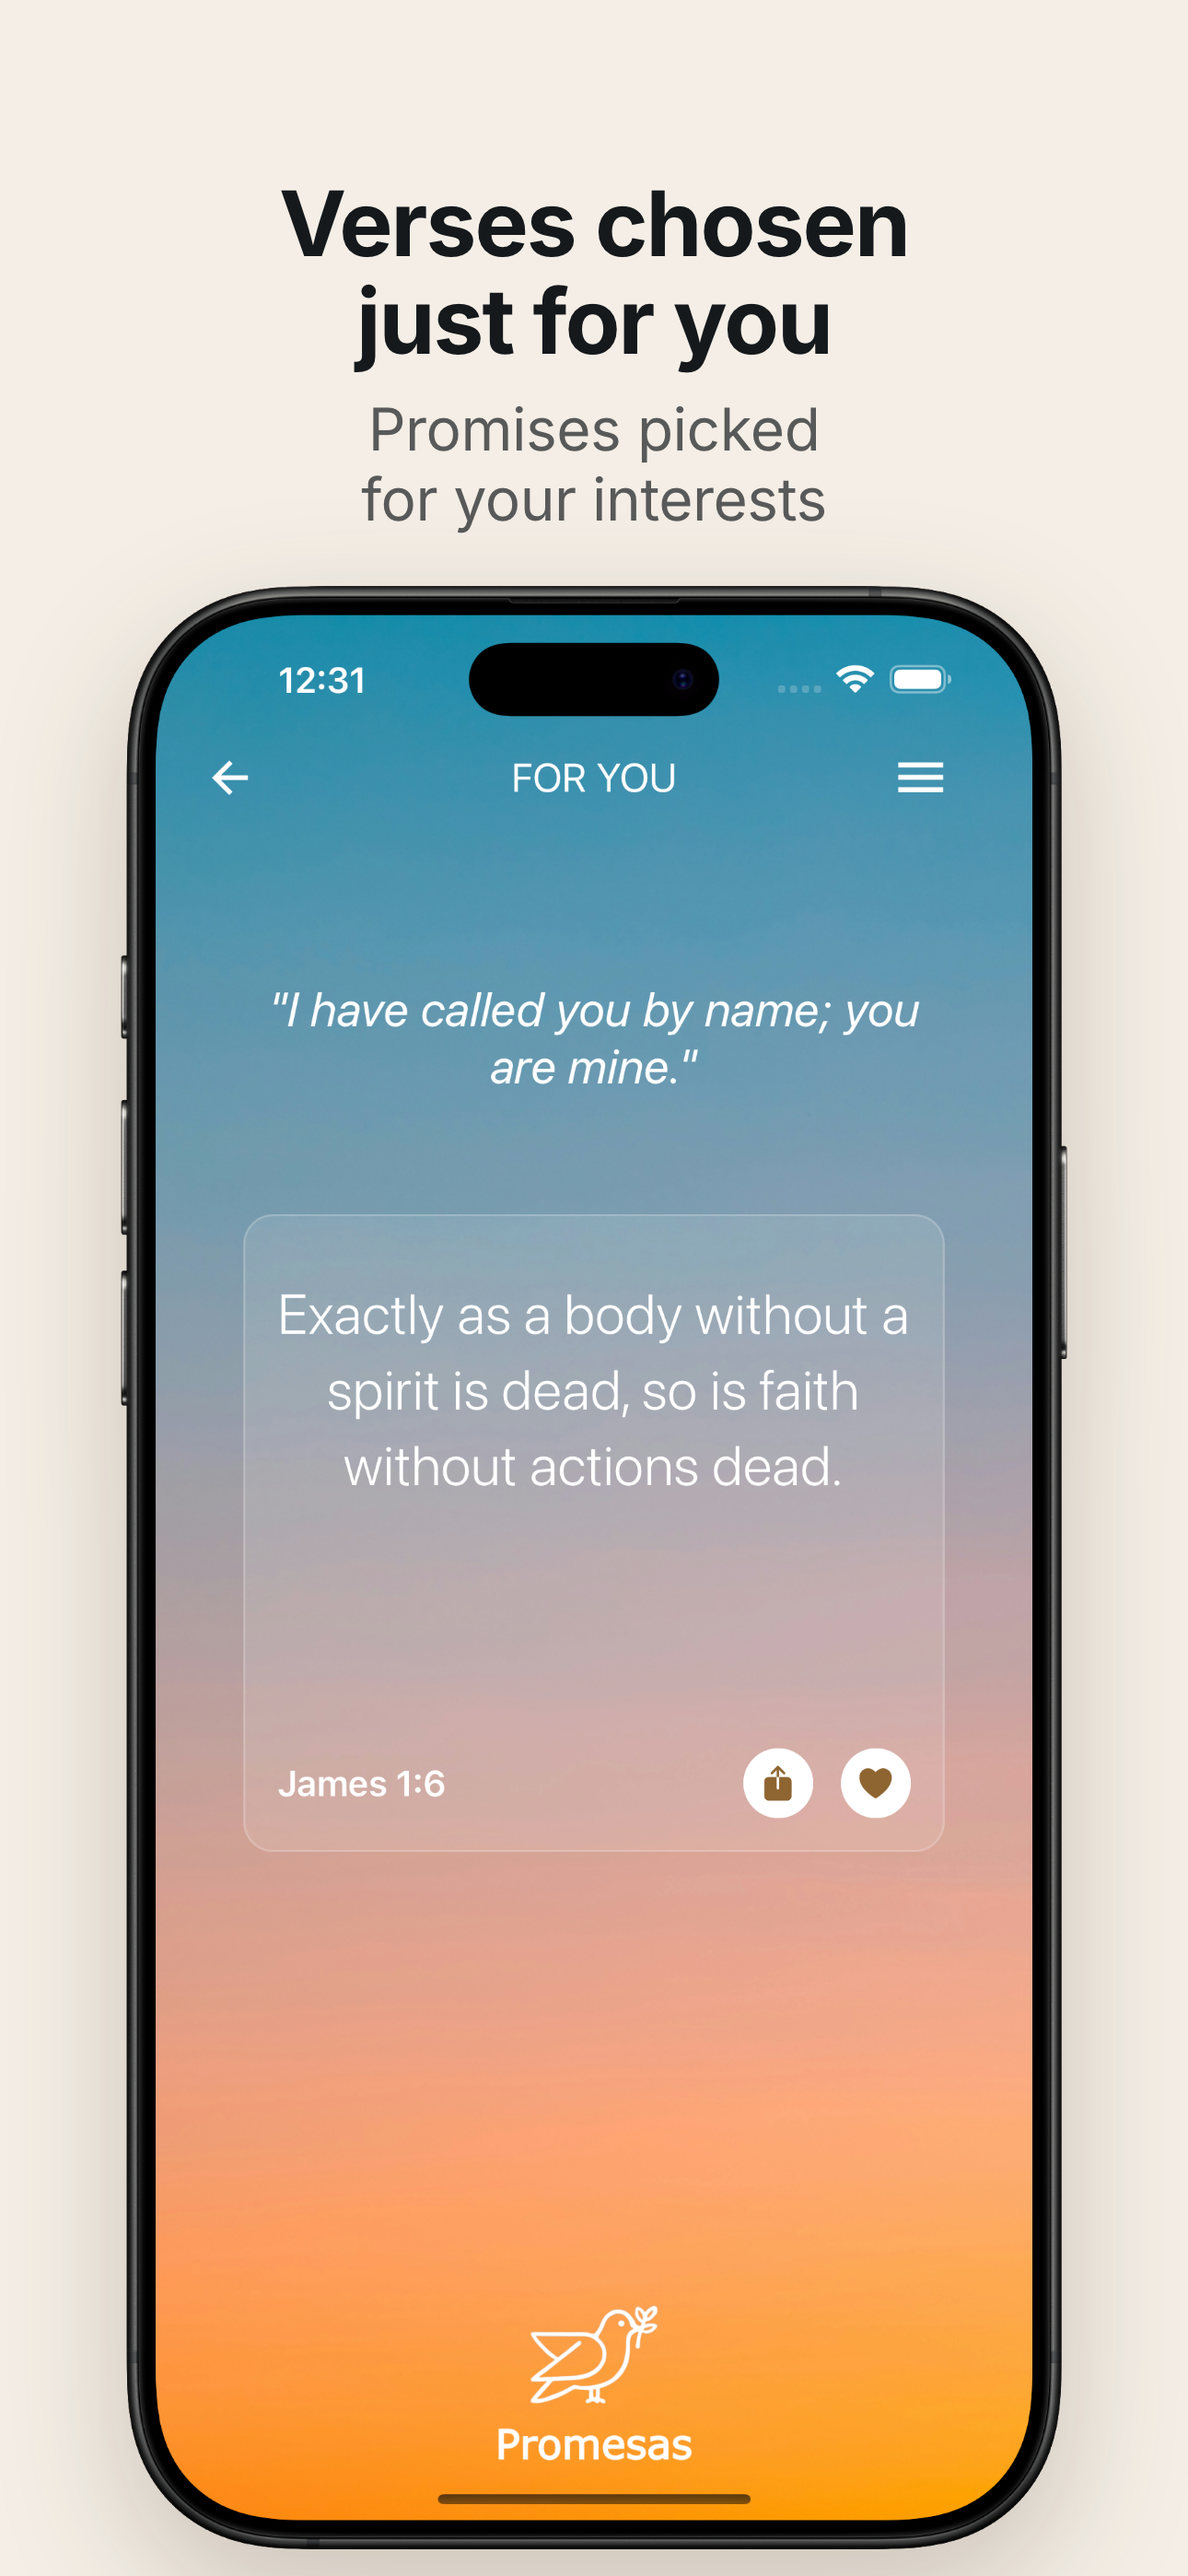
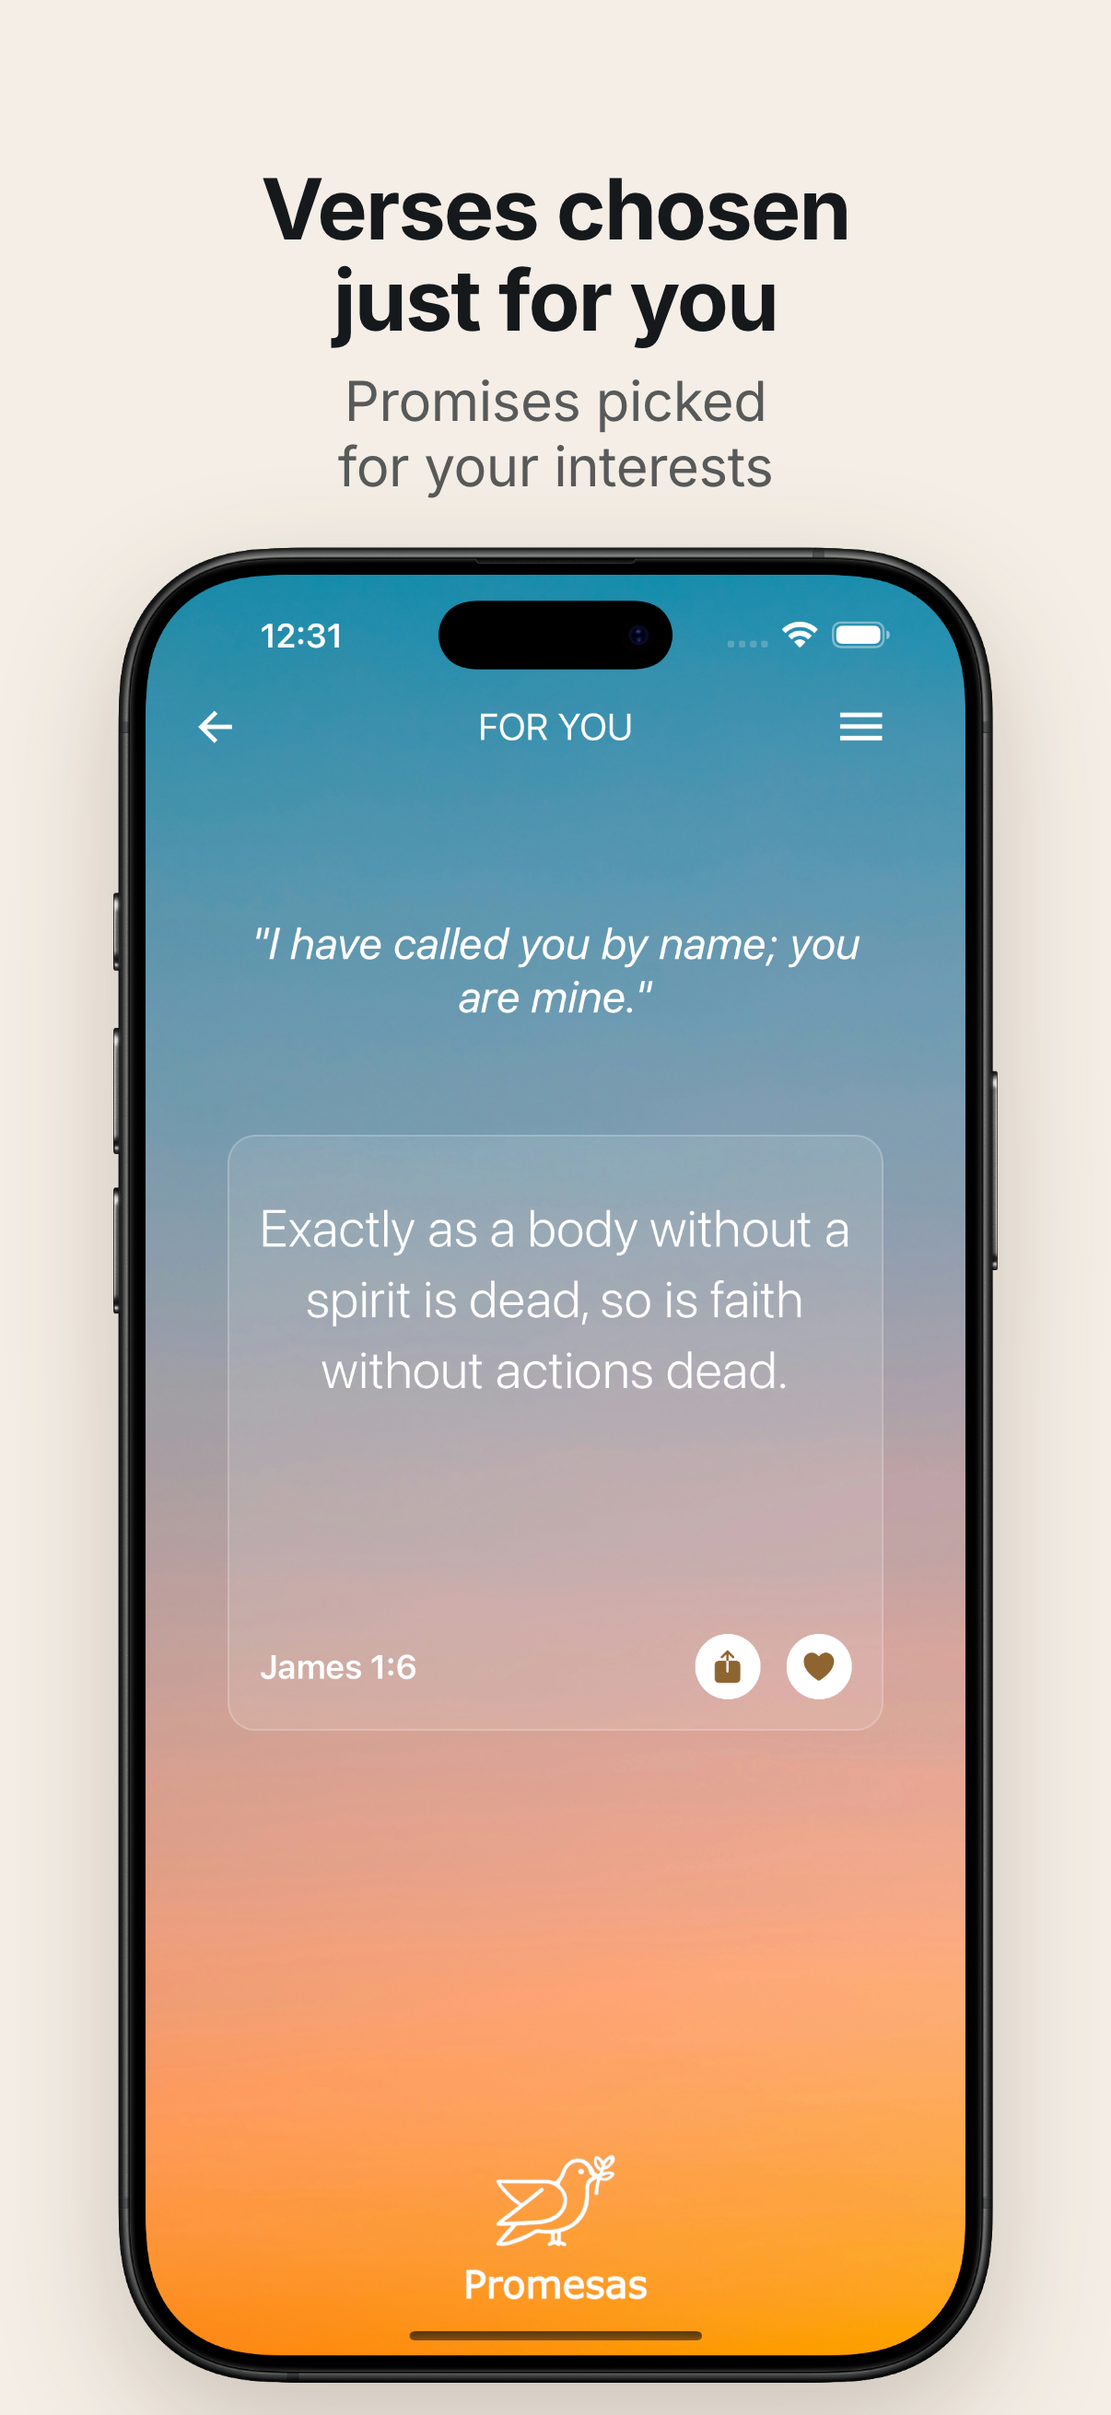
Render App Store screenshots at 1206x2622 for 6.3" displays
App Store Connect rejected the 1290x2796 files in the 6.1"/6.3" slot.
The template now scales its layout to an output size passed via ?w=&h=.

diff --git a/appstore/screenshots.html b/appstore/screenshots.html
@@ -5,7 +5,7 @@
 <link rel="preconnect" href="https://fonts.googleapis.com">
 <link href="https://fonts.googleapis.com/css2?family=Inter:wght@400;500;700;800&family=Fraunces:opsz,wght@9..144,600;9..144,700&display=block" rel="stylesheet">
 <style>
-  /* App Store 6.7" portrait: 1290 x 2796 */
+  /* Laid out on a 1290px-wide canvas, then scaled to the output size (?w=&h=, default 1206 x 2622 for 6.3") */
   :root {
     --ink: #15191c;
     --cream: #f4eee6;
@@ -14,14 +14,14 @@
     --orange: #ffa53a;
   }
   * { margin: 0; padding: 0; box-sizing: border-box; }
-  html, body { width: 1290px; height: 2796px; overflow: hidden; }
+  html, body { overflow: hidden; }
   body { font-family: "Inter", -apple-system, sans-serif; -webkit-font-smoothing: antialiased; }
 
-  .slide { position: relative; width: 1290px; height: 2796px; overflow: hidden; background: var(--cream); }
+  .slide { position: relative; width: 1290px; height: 2796px; overflow: hidden; transform-origin: 0 0; background: var(--cream); }
   .slide.dark { background: var(--ink); }
 
   /* Ribbon spans slides 1 and 2 as one continuous curve */
-  .ribbon { position: absolute; top: 0; width: 2580px; height: 2796px; pointer-events: none; }
+  .ribbon { position: absolute; top: 0; width: 2580px; height: 2796px; overflow: visible; pointer-events: none; }
   .s1 .ribbon { left: 0; }
   .s2 .ribbon { left: -1290px; }
 
@@ -49,7 +49,10 @@
 </head>
 <body>
 <script>
-const n = Number(new URLSearchParams(location.search).get('n') || 1);
+const params = new URLSearchParams(location.search);
+const n = Number(params.get('n') || 1);
+const outW = Number(params.get('w') || 1206), outH = Number(params.get('h') || 2622);
+const k = outW / 1290;
 const ribbon = `
 <svg class="ribbon" viewBox="0 0 2580 2796" xmlns="http://www.w3.org/2000/svg">
   <defs>
@@ -90,6 +93,10 @@ if (n === 1) {
   </div>`;
 }
 document.body.innerHTML = html;
+document.body.style.cssText = `width:${outW}px;height:${outH}px`;
+const slide = document.querySelector('.slide');
+slide.style.height = `${outH / k}px`;
+slide.style.transform = `scale(${k})`;
 </script>
 </body>
 </html>
